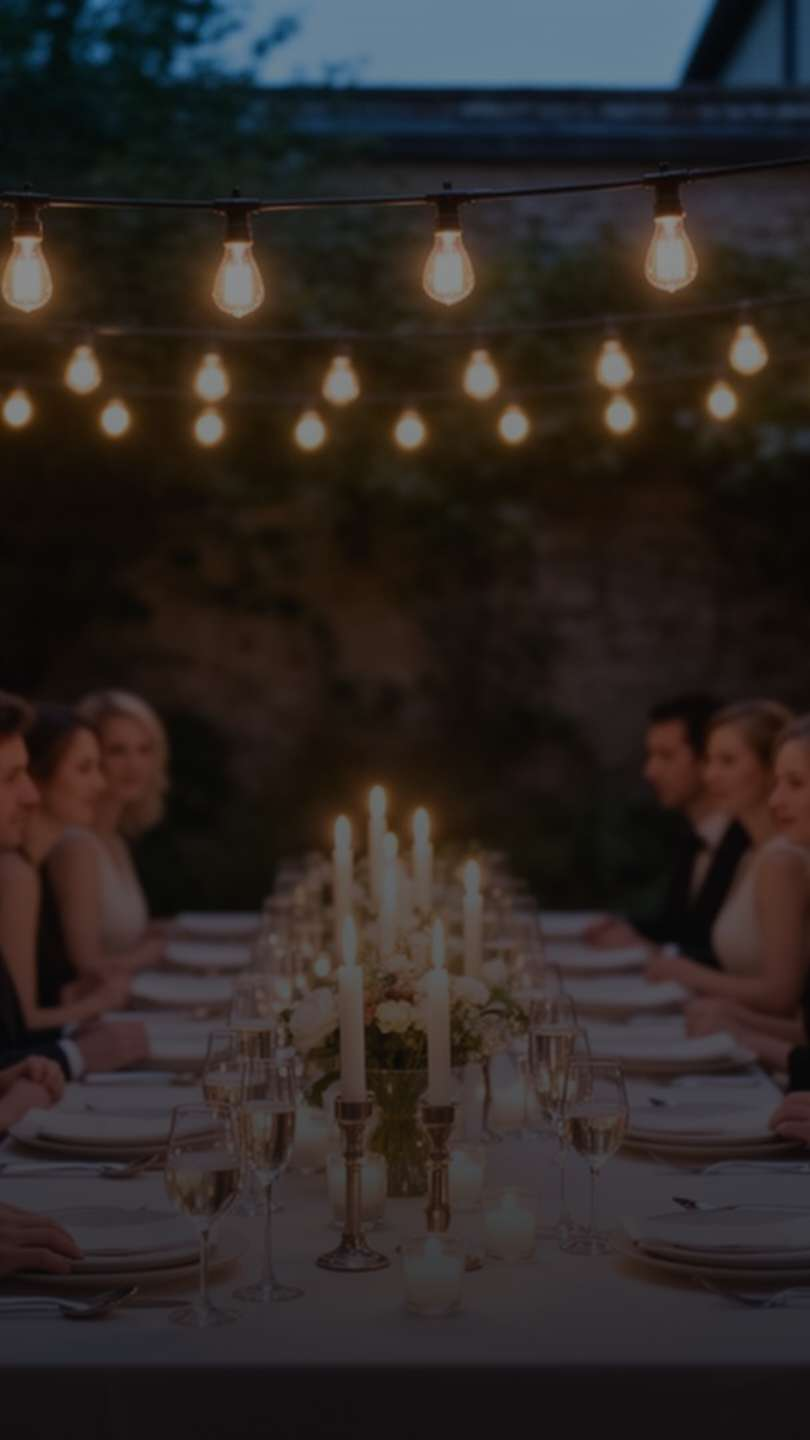
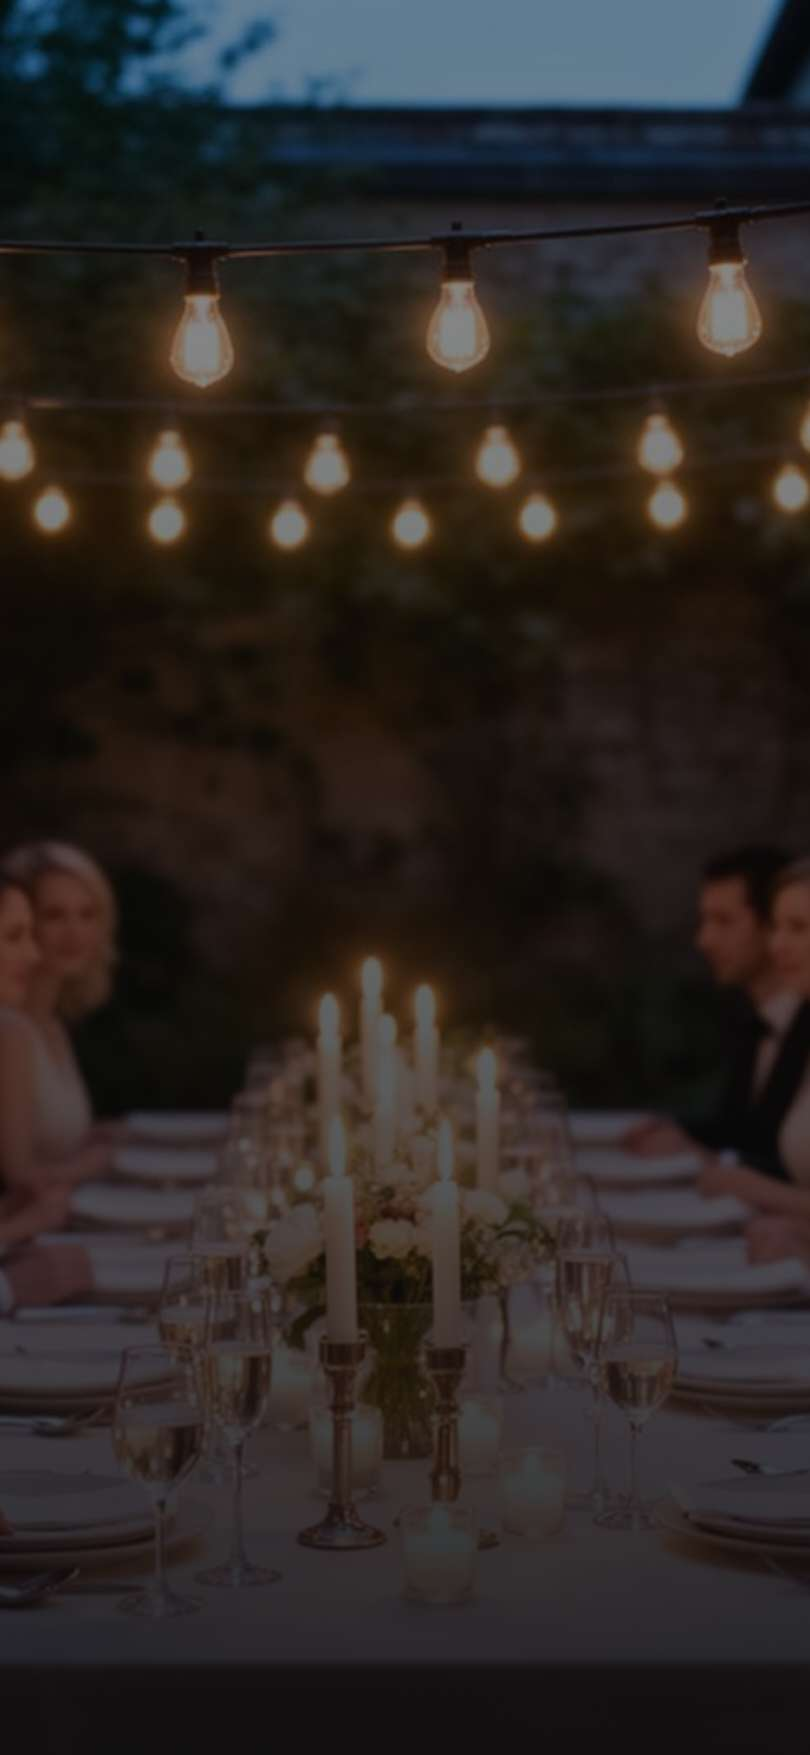
vendor-mobile: welcome value lines never appeared; sizing and crop fixes
Value lines were gated on scene === "done", which only arrives after the
full ~14s intro sequence plus a hold — so in practice they were never on
screen when anyone looked. They now time off the tagline finishing, so
they land as part of the sequence instead of after it.

Wordmark sized at 0.21 of the viewport measured out to nearly the entire
screen width on device: un-clipped, but flush to both edges, and it made
FitRow fire on every launch — rendering large and then visibly snapping
smaller, which is what read as the letters not settling properly. 0.175
puts the lockup near 85% width, so it has margins and FitRow goes back to
being a silent backstop.

Hero was exported 9:16 against a 9:19.5 screen, so `cover` scaled it up
and cropped the sides hard — the "why is it so zoomed in" effect. Now
exported at 9:19.5 to match tall phones, so it barely crops.

Claude-Session: https://claude.ai/code/session_01HvAAUdsC72jxw3PWkFEa2X

diff --git a/apps/vendor-mobile/app/(auth)/welcome.tsx b/apps/vendor-mobile/app/(auth)/welcome.tsx
@@ -395,12 +395,13 @@ export default function WelcomeScreen() {
   const router = useRouter();
   const insets = useSafeAreaInsets();
   const { width: screenWidth } = useWindowDimensions();
-  // Starting size for the wordmark. FitRow measures the rendered row and
-  // scales it down if it still overflows, so this only has to be a sane
-  // ceiling rather than an exact fit — an earlier version tried to compute
-  // the exact size from a glyph-width estimate and clipped anyway, because
-  // the Android serif fallback is wider than the estimate.
-  const wordmarkSize = Math.min(86, screenWidth * 0.21);
+  // Wordmark size. 0.21 of the viewport measured out to almost exactly the
+  // full screen width on device — technically un-clipped, but touching both
+  // edges with no breathing room, and it made FitRow fire on every launch
+  // (render big, then visibly snap smaller, which read as broken). 0.175
+  // lands the lockup at roughly 85% width, so it has margins and FitRow
+  // stays a silent backstop instead of part of the normal path.
+  const wordmarkSize = Math.min(78, screenWidth * 0.175);
   const [scene, setScene] = useState<Scene>("opener");
   const [phrasesShown, setPhrasesShown] = useState(0);
   const [stackFading, setStackFading] = useState(false);
@@ -582,11 +583,23 @@ export default function WelcomeScreen() {
                 />
               </View>
 
-              {/* Value lines. Fade in only once the intro has fully landed —
-                  during the animation they'd compete with the wordmark. */}
-              {scene === "done" ? (
-                <ValueLines delay={skipped ? 0 : 200} />
-              ) : null}
+              {/* Value lines follow the tagline directly.
+                  They were previously gated on scene === "done", which only
+                  arrives after the full ~14s intro plus a hold — so in
+                  practice nobody ever saw them. Timing off the tagline
+                  instead means they land as part of the sequence and are on
+                  screen well before the timeline finishes. */}
+              <ValueLines
+                delay={
+                  skipped
+                    ? 0
+                    : WORDMARK_PRE_DELAY +
+                      7 * WORDMARK_PER_CHAR +
+                      WORDMARK_HOLD +
+                      TAGLINE.length * TAGLINE_PER_CHAR +
+                      250
+                }
+              />
             </View>
           ) : null}
         </View>
